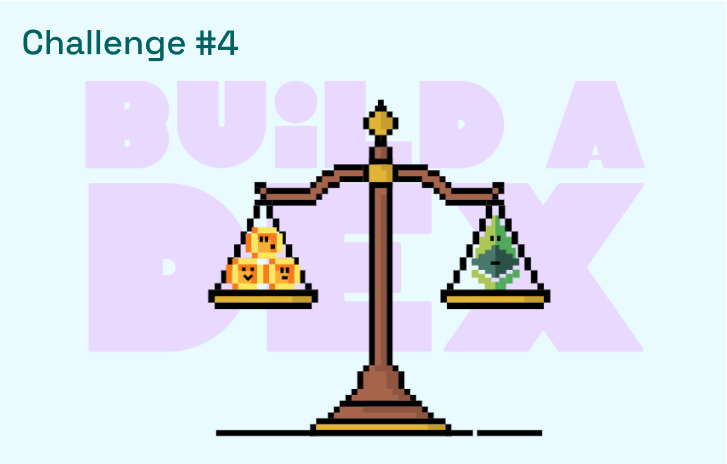
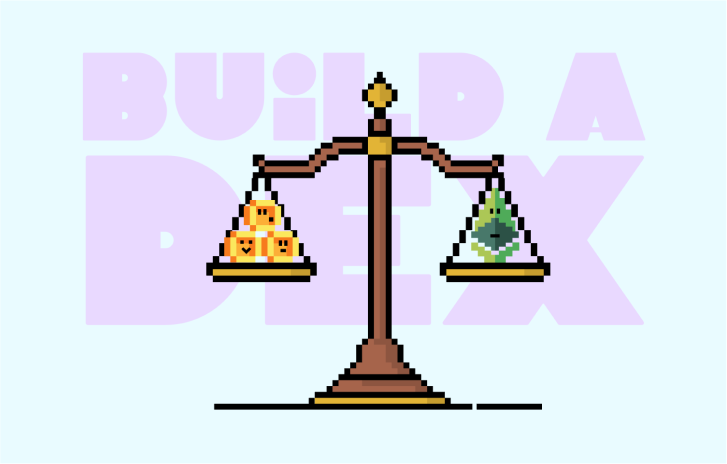
Delete challenge # from image assets

diff --git a/README.md b/README.md
@@ -1,6 +1,6 @@
 # 🚩 Challenge 4: ⚖ Build a DEX
 
-![readme-4](https://github.com/scaffold-eth/se-2-challenges/assets/55535804/a4807ee8-555a-4466-8216-0d91e0e76c33)
+![readme-4](https://github.com/user-attachments/assets/ecc7740e-692a-4d18-aee9-be8e391d00d3)
 
 This challenge will help you build/understand a simple decentralized exchange, with one token-pair (ERC20 BALLOONS ($BAL) and ETH). This repo is an updated version of the [original tutorial](https://medium.com/@austin_48503/%EF%B8%8F-minimum-viable-exchange-d84f30bd0c90) and challenge repos before it. Please read the intro for a background on what we are building first!
 
